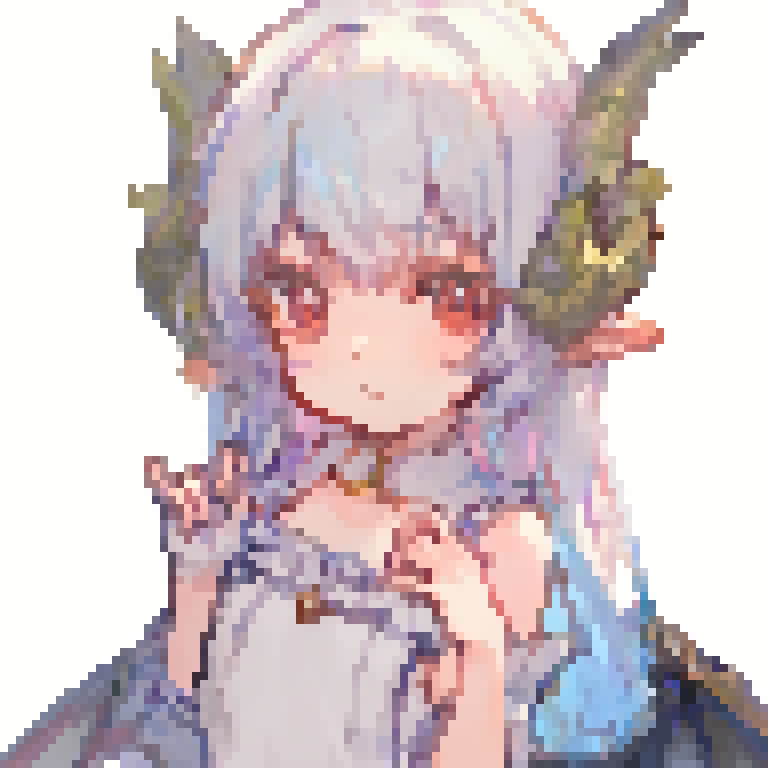
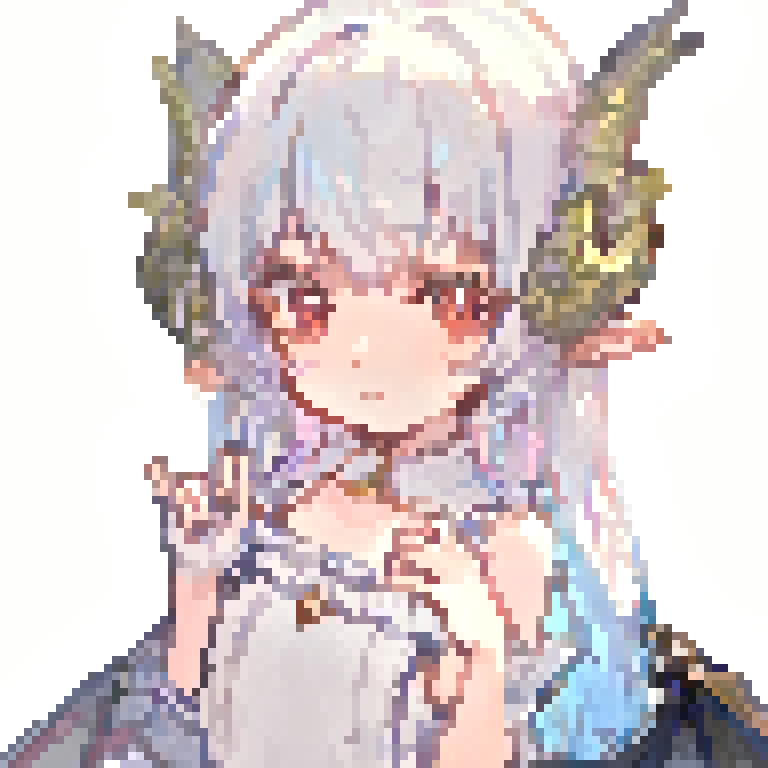
Updates

diff --git a/test.m b/test.m
@@ -1,18 +1,22 @@
 img = imread('image/00813.png');
-pix_size = 64;
+pix_size = 128;
 patch_size = 8;
 img = resize(img, pix_size * patch_size, 'bicubic', patch_size);
 img = single(img)/255;
 weight = expansion_weight(img, patch_size, 9, 4);
+weight = 1-weight;
+thickness3 = outline_expansion(img, 3, 3, patch_size, 6, 3);
 
-edge = outline_expansion(img, 2, 3, patch_size, 9, 4)-img;
+crop_box = [1, size(weight, 2)-128, 128, 128];
+
+edge = outline_expansion(img, 3, 3, patch_size, 9, 4)-img;
 edge = (edge+1)./2;
 edge(abs(edge-0.5) < 0.01) = 1.0;
 
 figure(); 
-subplot(2, 3, 1); imshow(img); title('Original');
-subplot(2, 3, 2); imshow(1-weight); title('Feature Map');
-subplot(2, 3, 3); imshow(outline_expansion(img, 3, 3, patch_size, 6, 3)); title('Thickness 3'); %imshow(edge); title('Thickness2 edge');
+subplot(2, 3, 1); imshow(imcrop(img, crop_box)); title('Original');
+subplot(2, 3, 2); imshow(imcrop(weight, crop_box)); title('Feature Map');
+subplot(2, 3, 3); imshow(imcrop(thickness3, crop_box)); title('Thickness 3'); %imshow(edge); title('Thickness2 edge');
 subplot(2, 3, 4); imshow(outline_expansion(img, 1, 1, patch_size, 6, 3)); title('Thickness 1');
 subplot(2, 3, 5); imshow(outline_expansion(img, 2, 2, patch_size, 6, 3)); title('Thickness 2');
 subplot(2, 3, 6); imshow(outline_expansion(img, 3, 3, patch_size, 6, 3)); title('Thickness 3');

diff --git a/pixelize.m b/pixelize.m
@@ -25,9 +25,9 @@ function output = pixelize(input, target_size, resize_method, thickness, color_m
     % downscale
     % Different downscale method may have Different result
     img_lab = rgb2lab(img);
-    img_lab(:, :, 1) = apply_chunk_new(img_lab(:, :, 1), patch_size/2, patch_size/2, @find_pixel);
-    img_lab(:, :, 2) = apply_chunk_new(img_lab(:, :, 2), patch_size/2, patch_size/2, @median2);
-    img_lab(:, :, 3) = apply_chunk_new(img_lab(:, :, 3), patch_size/2, patch_size/2, @median2);
+    img_lab(:, :, 1) = apply_chunk_new(img_lab(:, :, 1), patch_size, patch_size, @find_pixel);
+    img_lab(:, :, 2) = apply_chunk_new(img_lab(:, :, 2), patch_size, patch_size, @median2);
+    img_lab(:, :, 3) = apply_chunk_new(img_lab(:, :, 3), patch_size, patch_size, @median2);
     img = lab2rgb(img_lab);
     % imshow(img);
     img_sm = resize(img, target_size, resize_method, patch_size);
@@ -36,7 +36,6 @@ function output = pixelize(input, target_size, resize_method, thickness, color_m
     % After downscale
     % Apply color palette
     % Apply dithering
-    % img_sm = imgaussfilt(img_sm, 0.5);
     % img_sm = sharpening(img_sm, 2);
     % [~, centers] = imsegkmeans(img_sm, 64);
     % color_map = min(max(centers, 0), 1);

diff --git a/expansion_weight.m b/expansion_weight.m
@@ -6,9 +6,9 @@ function output = expansion_weight(input, k, avg_scale, dist_scale)
         dist_scale single = 3;
     end
     img_gray = rgb2gray(input);
-    avg_brightness = apply_chunk_new(img_gray, k*2, k, @mean2);
-    max_brightness = apply_chunk_new(img_gray, k*2, k, @maximum2);
-    min_brightness = apply_chunk_new(img_gray, k*2, k, @minimum2);
+    avg_brightness = apply_chunk_new(img_gray, k*3, k, @mean2);
+    max_brightness = apply_chunk_new(img_gray, k*3, k, @maximum2);
+    min_brightness = apply_chunk_new(img_gray, k*3, k, @minimum2);
     bright_distance = max_brightness - avg_brightness;
     dark_distance = avg_brightness - min_brightness;
     
@@ -26,7 +26,7 @@ function output = expansion_weight(input, k, avg_scale, dist_scale)
     
     output = sigmoid(weight);
     output = imresize(output, 1/single(k), 'nearest');
-    output = imresize(output, k, "bilinear");
+    output = imresize(output, k, "bicubic");
     output = output - minimum2(output);
     output = output / maximum2(output);
 end

diff --git a/main.m b/main.m
@@ -1,7 +1,7 @@
 img_name = "00813";
 img_original = imread('image/' + img_name + ".png");
 patch_size = 8;
-for settings = [64, 96, 128; 3 3 3]
+for settings = [64, 96, 128; 2 3 3]
     pix_size = settings(1);
     expand = settings(2);
     disp(settings);
